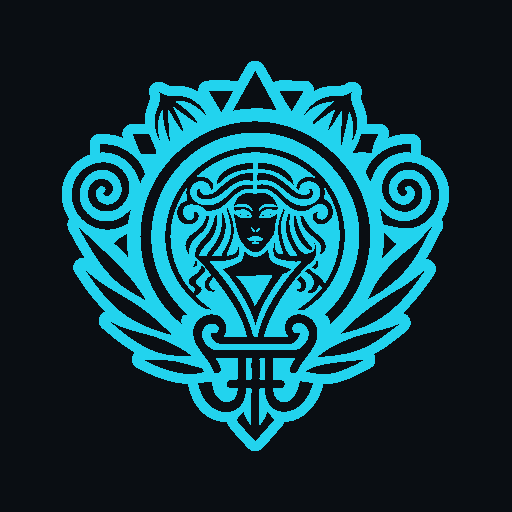
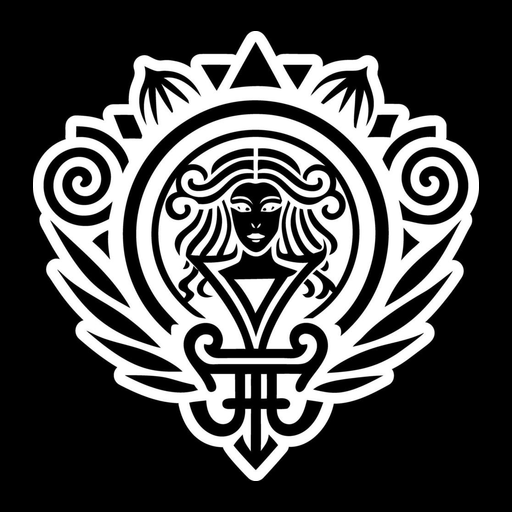
fix(brand): serve the white Pythia glyph on tabs and social cards
The last icon set was a cyan-on-navy smear plus a substitute SVG, so Chrome and crawlers showed a blank mark. Rebuild every size from the attached glyph and stop the SPA rewrite from swallowing those files.

diff --git a/site/index.html b/site/index.html
@@ -14,23 +14,27 @@
     <meta name="robots" content="index, follow" />
     <link rel="canonical" href="https://pythh.ai/" />
 
-    <!-- Favicons / tab / home-screen -->
-    <link rel="icon" href="/favicon.ico" sizes="any" />
-    <link rel="icon" type="image/png" sizes="32x32" href="/favicon-32.png" />
-    <link rel="icon" type="image/png" sizes="16x16" href="/favicon-16.png" />
-    <link rel="icon" type="image/svg+xml" href="/favicon.svg" />
-    <link rel="apple-touch-icon" href="/apple-touch-icon.png" />
-    <link rel="manifest" href="/site.webmanifest" />
-    <meta name="theme-color" content="#0a0e13" />
-    <meta name="msapplication-TileColor" content="#0a0e13" />
-    <meta name="msapplication-TileImage" content="/apple-touch-icon.png" />
+    <!-- Favicons / tab / home-screen — Pythia glyph, cache-busted after the invisible cyan set -->
+    <link rel="icon" type="image/png" sizes="32x32" href="/favicon-32.png?v=glyph2" />
+    <link rel="icon" type="image/png" sizes="16x16" href="/favicon-16.png?v=glyph2" />
+    <link rel="icon" href="/favicon.ico?v=glyph2" sizes="48x48" />
+    <link rel="shortcut icon" href="/favicon.ico?v=glyph2" />
+    <link rel="icon" type="image/jpeg" href="/images/delphi-pythia-icon-glyph-dark.jpg?v=glyph2" />
+    <link rel="apple-touch-icon" href="/apple-touch-icon.png?v=glyph2" />
+    <link rel="manifest" href="/site.webmanifest?v=glyph2" />
+    <meta name="theme-color" content="#000000" />
+    <meta name="msapplication-TileColor" content="#000000" />
+    <meta name="msapplication-TileImage" content="/apple-touch-icon.png?v=glyph2" />
 
     <!-- Open Graph / Facebook -->
     <meta property="og:type" content="website" />
     <meta property="og:url" content="https://pythh.ai/" />
     <meta property="og:title" content="Pythh.ai — We Find Investors Who Will Fund You" />
     <meta property="og:description" content="Meet Your Investors. We connect the dots to fund your round. Paste your startup URL below. We score the company and rank investors for this round." />
-    <meta property="og:image" content="https://pythh.ai/og-image.png" />
+    <meta property="og:image" content="https://pythh.ai/og-image.png?v=glyph2" />
+    <meta property="og:image:secure_url" content="https://pythh.ai/og-image.png?v=glyph2" />
+    <meta property="og:image:type" content="image/png" />
+    <meta property="og:image:alt" content="Pythh — the Pythia glyph" />
     <meta property="og:image:width" content="1200" />
     <meta property="og:image:height" content="630" />
     <meta property="og:site_name" content="Pythh.ai" />
@@ -42,7 +46,8 @@
     <meta name="twitter:creator" content="@pythhai" />
     <meta name="twitter:title" content="Pythh.ai — We Find Investors Who Will Fund You" />
     <meta name="twitter:description" content="Meet Your Investors. We connect the dots to fund your round. Paste your startup URL below. We score the company and rank investors for this round." />
-    <meta name="twitter:image" content="https://pythh.ai/og-image.png" />
+    <meta name="twitter:image" content="https://pythh.ai/og-image.png?v=glyph2" />
+    <meta name="twitter:image:alt" content="Pythh — the Pythia glyph" />
 
     <!-- Structured Data (JSON-LD) -->
     <script type="application/ld+json">
@@ -52,8 +57,8 @@
       "name": "Pythh.ai",
       "description": "We find investors who will fund you. Paste your URL — Pythh finds investors who will fund your startup.",
       "url": "https://pythh.ai",
-      "logo": "https://pythh.ai/apple-touch-icon.png",
-      "image": "https://pythh.ai/og-image.png",
+      "logo": "https://pythh.ai/apple-touch-icon.png?v=glyph2",
+      "image": "https://pythh.ai/og-image.png?v=glyph2",
       "applicationCategory": "BusinessApplication",
       "operatingSystem": "Web",
       "offers": {
